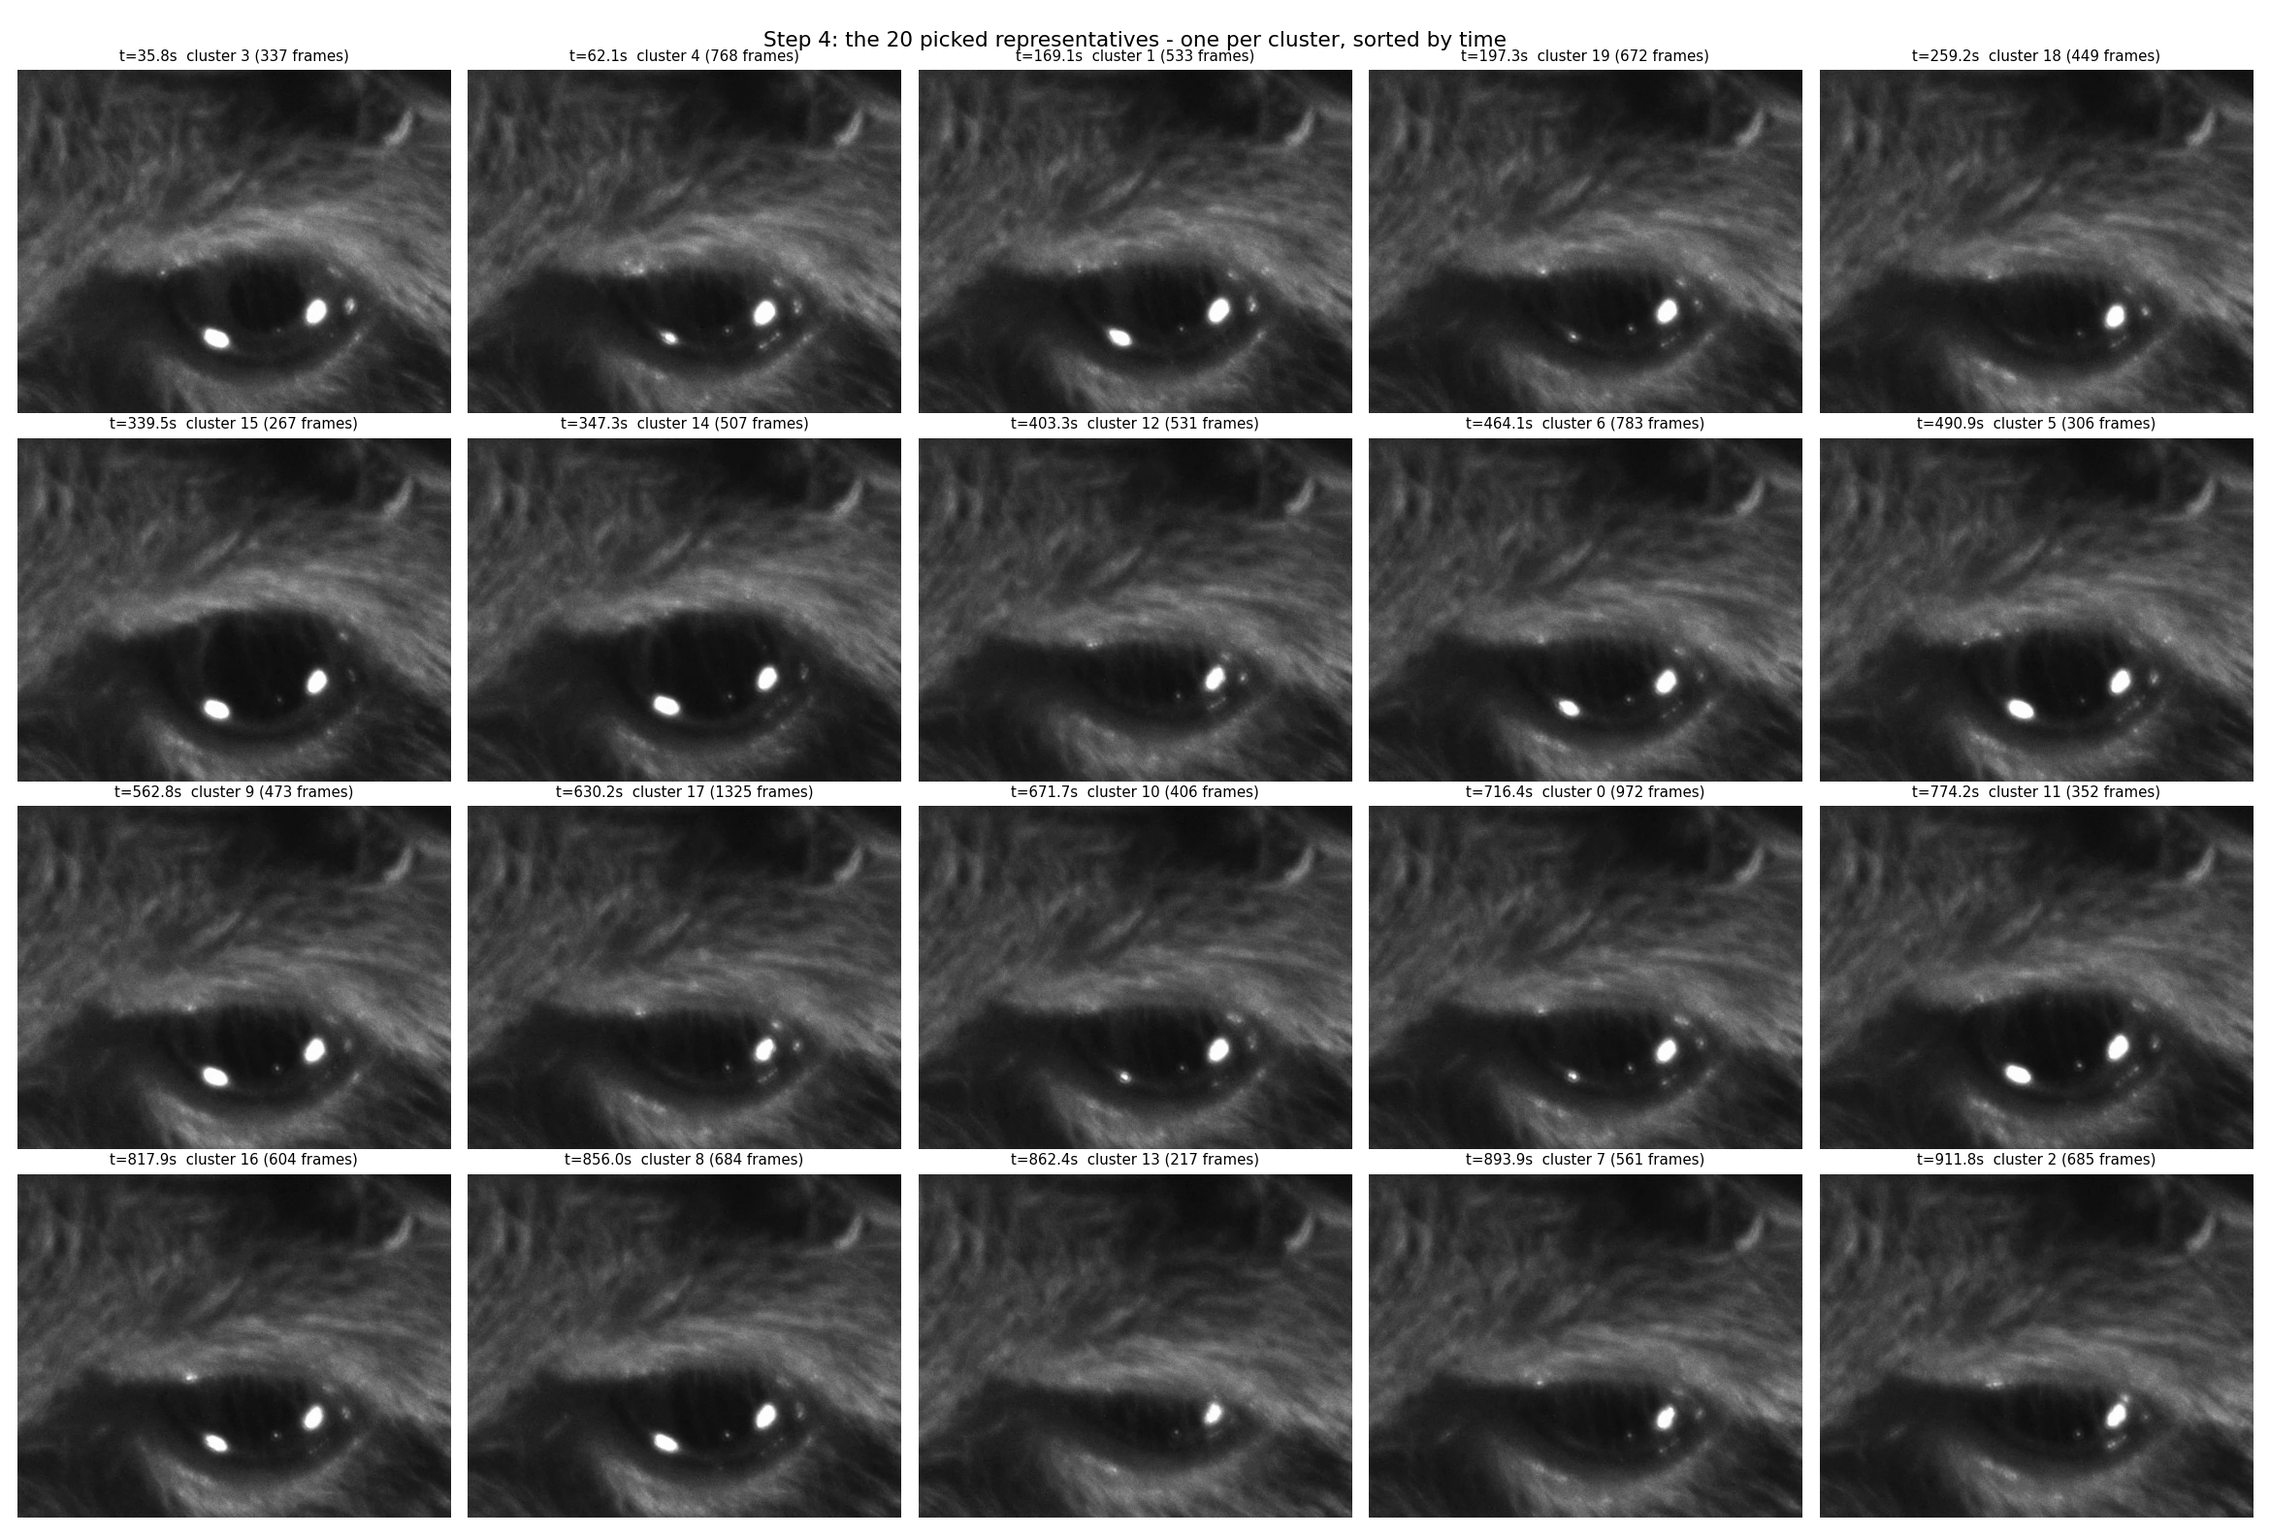
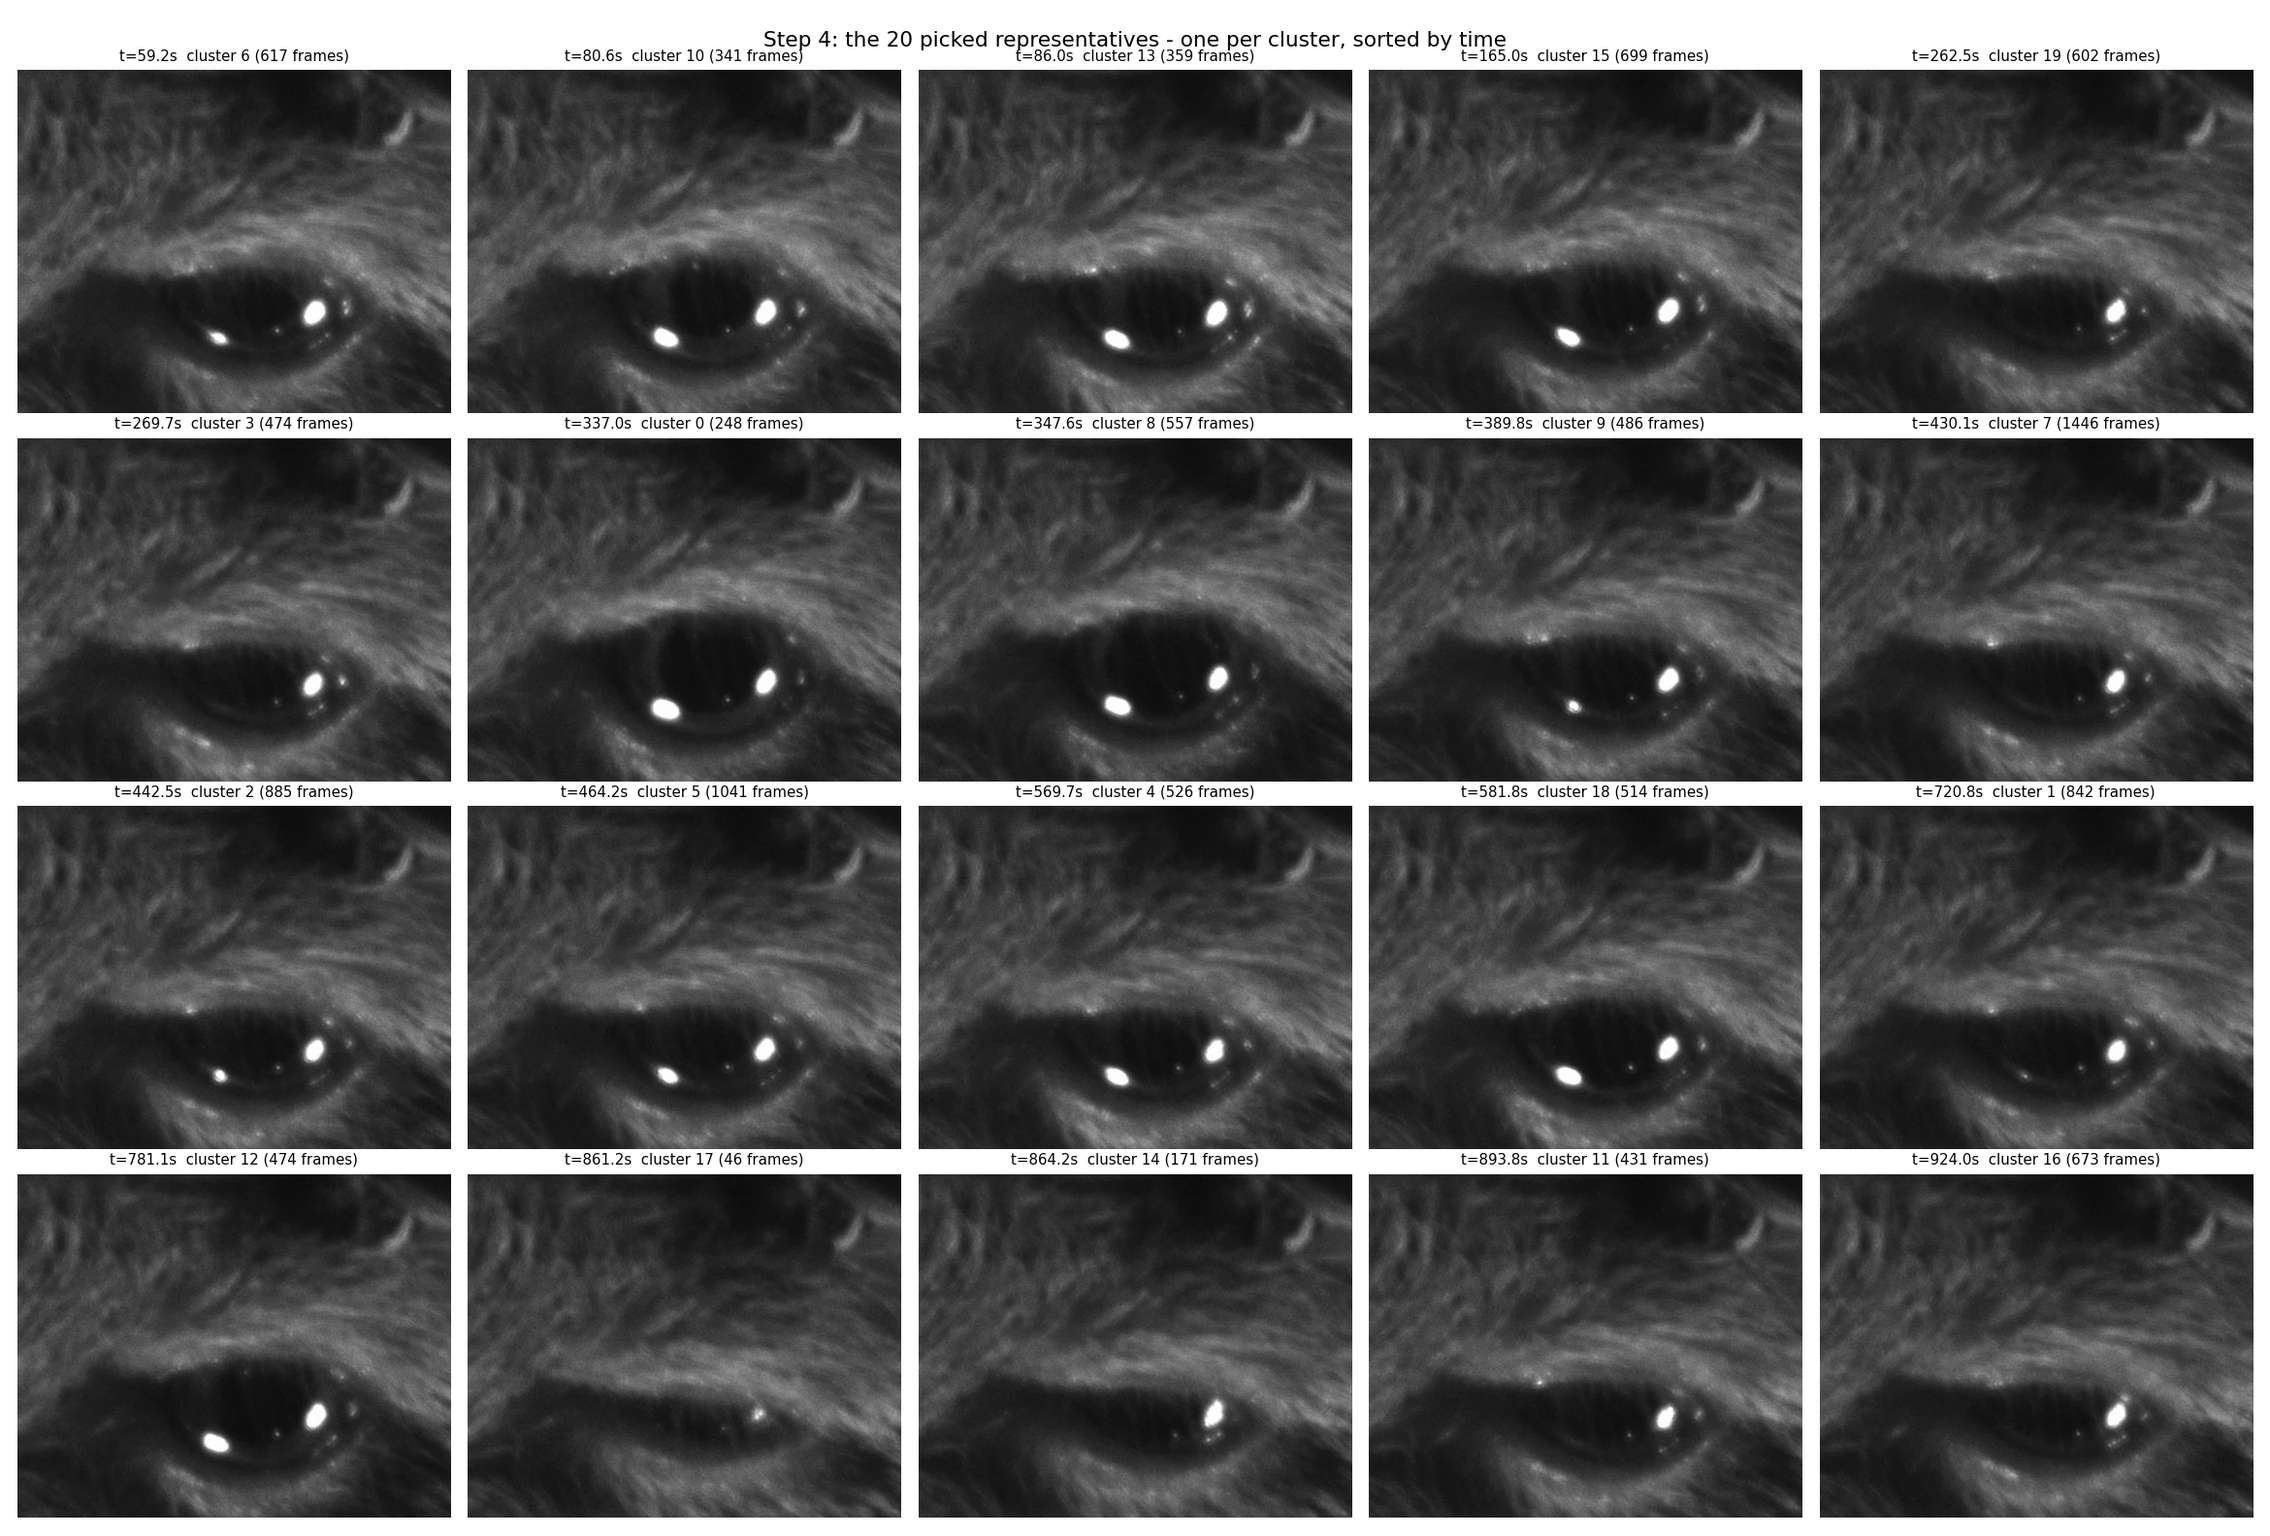
Selector finalized on evidence: k-means over difference-of-Gaussians fingerprints
Multi-seed eye-state coverage on the old video (known states): average
coverage is within noise of random, but all four rare extremes are hit in
10/10 seeds (raw pixels 7/10, random 27%). On three Pluto sessions DoG
doubles silhouette and raises pick diversity. Added selector_check.py
(cross-video label-free criteria) and validate_selector.py. The brightness
criterion C5 proved non-diagnostic in both forms and is documented as such.

diff --git a/new-video-generalization/scripts/selector_check.py b/new-video-generalization/scripts/selector_check.py
@@ -1,0 +1,157 @@
+#!/usr/bin/env python3
+"""Label-free robustness check of the batch-1 selector across videos.
+
+    python selector_check.py <video> [<video> ...]
+
+Runs the exact batch-1 recipe of select_scale_frames.py (80/10/10 split with
+2-s guards, every 5th pool frame, 32x24 normalized grayscale fingerprints,
+scikit-learn k-means k=20 seed 42, medoid per cluster, >=1 s spacing) and
+scores it against criteria declared BEFORE looking at the results:
+
+  C1 runs and yields exactly 20 picks inside the pool
+  C2 temporal coverage: picks fall in >= 7 of the pool's 10 time deciles
+  C3 no near-duplicates: minimum gap between picks >= 1 s
+  C4 clusters are eye STATES, not time chunks: median cluster spans >= 25%
+     of the pool duration (5th-95th percentile of its members' times)
+  C5 not illumination-driven: cluster labels explain < 50% of the variance
+     of BACKGROUND brightness (top quarter of the frame = fur, no eye). The
+     first version used whole-frame brightness, which cannot separate lighting
+     from eye state (a dilated pupil darkens the frame); replaced 2026-09-19
+     after an illumination-blind feature gave the same whole-frame eta^2.
+  C6 picks are more diverse than chance: mean pairwise fingerprint distance
+     of the 20 picks >= 75th percentile of 300 random 20-frame draws
+
+Writes nothing under training-data/labels; figures go to
+results/selector_check/.
+"""
+import sys
+from pathlib import Path
+
+import cv2
+import matplotlib
+
+matplotlib.use("Agg")
+import matplotlib.pyplot as plt
+import numpy as np
+from sklearn.cluster import KMeans
+from sklearn.metrics import silhouette_score
+
+UNIT = Path(__file__).resolve().parents[1]
+OUT = UNIT / "results" / "selector_check"
+OUT.mkdir(parents=True, exist_ok=True)
+SEED, STRIDE, N, GUARD_S, MIN_GAP_S, FLOOR_S = 42, 5, 20, 2.0, 1.0, 60.0
+import os
+FEAT = os.environ.get("FEAT", "raw")
+
+
+def check(video):
+    video = Path(video)
+    cap = cv2.VideoCapture(str(video))
+    n = int(cap.get(cv2.CAP_PROP_FRAME_COUNT))
+    fps = float(cap.get(cv2.CAP_PROP_FPS)) or 60.0
+    w, h = int(cap.get(3)), int(cap.get(4))
+    seg = max(0.10 * n / fps, FLOOR_S)
+    guard = int(round(GUARD_S * fps))
+    test_lo = n - int(round(seg * fps))
+    val_hi = test_lo - guard
+    val_lo = val_hi - int(round(seg * fps))
+    pool_hi = val_lo - guard
+
+    feats, ids, bright = [], [], []
+    for i in range(pool_hi):
+        if not cap.grab():
+            break
+        if i % STRIDE:
+            continue
+        ok, im = cap.retrieve()
+        if not ok:
+            continue
+        gray = cv2.cvtColor(im, cv2.COLOR_BGR2GRAY).astype(np.float32)
+        bright.append(gray[: gray.shape[0] // 4].mean())   # fur-only strip: illumination proxy, no eye
+        if FEAT == "dog":      # difference of Gaussians: keeps edges/shape, drops slow illumination
+            small = cv2.resize(gray, (128, 96), interpolation=cv2.INTER_AREA)
+            small = cv2.GaussianBlur(small, (0, 0), 1.0) - cv2.GaussianBlur(small, (0, 0), 6.0)
+            g = cv2.resize(small, (32, 24), interpolation=cv2.INTER_AREA).ravel()
+        else:
+            g = cv2.resize(gray, (32, 24)).ravel()
+        feats.append((g - g.mean()) / (g.std() + 1e-6))
+        ids.append(i)
+    feats, ids, bright = np.asarray(feats), np.asarray(ids), np.asarray(bright)
+
+    km = KMeans(n_clusters=N, n_init=10, max_iter=300, random_state=SEED).fit(feats)
+    lab = km.labels_
+    order = np.argsort(-np.bincount(lab, minlength=N))
+    gap = int(round(MIN_GAP_S * fps))
+    picks, pos = [], []
+    for c in order:
+        m = np.where(lab == c)[0]
+        ranked = m[np.argsort(np.linalg.norm(feats[m] - km.cluster_centers_[c], axis=1))]
+        for j in ranked:                         # nearest member that respects spacing
+            if all(abs(ids[j] - p) >= gap for p in picks):
+                picks.append(int(ids[j])); pos.append(int(j)); break
+    picks, pos = np.asarray(picks), np.asarray(pos)
+
+    t = ids / fps
+    deciles = len(set(np.minimum((picks / pool_hi * 10).astype(int), 9)))
+    min_gap = float(np.diff(np.sort(picks)).min() / fps)
+    spans = []
+    for c in range(N):
+        tc = t[lab == c]
+        spans.append((np.percentile(tc, 95) - np.percentile(tc, 5)) / (pool_hi / fps))
+    span_med = float(np.median(spans))
+    grand = bright.mean()
+    eta2 = float(sum((lab == c).sum() * (bright[lab == c].mean() - grand) ** 2 for c in range(N))
+                 / ((bright - grand) ** 2).sum())
+
+    def mpd(idx):
+        f = feats[idx]
+        d = np.linalg.norm(f[:, None] - f[None], axis=2)
+        return d[np.triu_indices(len(idx), 1)].mean()
+    rng = np.random.RandomState(0)
+    rand = np.array([mpd(rng.choice(len(feats), N, replace=False)) for _ in range(300)])
+    div_pct = float((rand <= mpd(pos)).mean())
+    sil = float(silhouette_score(feats, lab, sample_size=min(3000, len(feats)), random_state=0))
+
+    crit = {
+        "C1 20 picks in pool": len(picks) == N and picks.max() < pool_hi,
+        "C2 time deciles >= 7": deciles >= 7,
+        "C3 min gap >= 1 s": min_gap >= 1.0,
+        "C4 clusters span >= 25% of pool": span_med >= 0.25,
+        "C5 brightness eta2 < 0.5": eta2 < 0.5,
+        "C6 diversity >= 75th pct of random": div_pct >= 0.75,
+    }
+
+    # figure: timeline of clusters + montage of the picks
+    fig = plt.figure(figsize=(20, 15))
+    gs = fig.add_gridspec(5, 5, height_ratios=[1.3, 1, 1, 1, 1], hspace=0.28, wspace=0.05)
+    ax = fig.add_subplot(gs[0, :])
+    ax.scatter(t, lab, c=lab, cmap=plt.get_cmap("tab20", N), s=3, alpha=0.6, vmin=0, vmax=N - 1)
+    ax.scatter(picks / fps, lab[pos], marker="*", s=200, c="black", zorder=5)
+    ax.set_xlabel("time (s)"); ax.set_ylabel("cluster id"); ax.set_yticks(range(N))
+    ok_all = all(crit.values())
+    ax.set_title(f"{video.name}  {n / fps / 60:.1f} min @ {fps:.0f} fps, {w}x{h} | pool 0-{pool_hi / fps:.0f}s | "
+                 f"silhouette {sil:.2f} | deciles hit {deciles}/10 | min gap {min_gap:.1f}s | "
+                 f"cluster span {span_med:.0%} | brightness eta2 {eta2:.2f} | diversity pct {div_pct:.0%} | "
+                 f"{'ALL CRITERIA PASS' if ok_all else 'CRITERIA FAILED'}", fontsize=10)
+    for k, f in enumerate(np.sort(picks)):
+        axi = fig.add_subplot(gs[1 + k // 5, k % 5])
+        cap.set(cv2.CAP_PROP_POS_FRAMES, int(f))
+        okr, im = cap.read()
+        if okr:
+            axi.imshow(cv2.cvtColor(im, cv2.COLOR_BGR2RGB))
+        axi.set_title(f"t={f / fps:.1f}s", fontsize=9); axi.axis("off")
+    cap.release()
+    fig.savefig(OUT / f"{video.stem}_selector_check_{FEAT}.png", dpi=95, bbox_inches="tight")
+    plt.close(fig)
+
+    print(f"\n=== [{FEAT}] {video.name}: {n / fps / 60:.1f} min, {fps:.0f} fps, {w}x{h}, "
+          f"pool [0,{pool_hi}) val [{val_lo},{val_hi}) test [{test_lo},{n})")
+    print(f"    silhouette {sil:.3f} | deciles {deciles}/10 | min gap {min_gap:.1f}s | median cluster span "
+          f"{span_med:.0%} | brightness eta2 {eta2:.2f} | diversity percentile {div_pct:.0%}")
+    for k, v in crit.items():
+        print(f"    [{'PASS' if v else 'FAIL'}] {k}")
+    return ok_all
+
+
+results = {v: check(v) for v in sys.argv[1:]}
+print("\nSUMMARY:", {Path(k).name: ("PASS" if v else "FAIL") for k, v in results.items()})

diff --git a/new-video-generalization/scripts/select_scale_frames.py b/new-video-generalization/scripts/select_scale_frames.py
@@ -11,9 +11,10 @@ Implements FROZEN_PARAMETERS.md exactly (rewritten 2026-09-18 after audit):
              (>= 60 s), pool = everything earlier; a GUARD of 2 s is removed
              on both sides of val so no pool/val/test frames are near-duplicates.
              fps and length are read from the video, never hardcoded.
-  batch 1    k-means (sklearn, k=20, n_init=10, random_state=42) on per-frame
-             normalized 32x24 grayscale fingerprints of every 5th pool frame;
-             one medoid per cluster.
+  batch 1    k-means (sklearn, k=20, n_init=10, random_state=42) on 32x24
+             difference-of-Gaussians fingerprints (sigma 1 - sigma 6 on a
+             128x96 downscale, then per-frame normalized) of every 5th pool
+             frame; one medoid per cluster.
   batch >=2  error-guided: `jump` detector on the latest model's predictions
              (any keypoint moving more than EPS_FRAC * median eye width
              between consecutive frames), then k-means (k=20) among the
@@ -51,10 +52,12 @@ ap.add_argument("--pred-h5", default=None, help="latest model's predictions (bat
 ap.add_argument("--force", action="store_true")
 a = ap.parse_args()
 
-videos = [Path(a.video)] if a.video else sorted(TD.glob("*.mp4"))
+FIRST = "20251031_Pluto_spont_1"
+videos = [Path(a.video)] if a.video else sorted(TD.rglob(f"{FIRST}.mp4"))
 if len(videos) != 1:
-    sys.exit(f"expected exactly one video, found {videos}")
+    sys.exit(f"expected exactly one video, found {videos}; pass --video")
 VIDEO = videos[0]
+LABELS = TD / "labels" if VIDEO.stem == FIRST else TD / f"labels_{VIDEO.stem}"
 cap = cv2.VideoCapture(str(VIDEO))
 n_frames = int(cap.get(cv2.CAP_PROP_FRAME_COUNT))
 fps = float(cap.get(cv2.CAP_PROP_FPS)) or 60.0
@@ -70,7 +73,7 @@ if pool_hi < int(60 * fps):
     sys.exit("video too short for the 80/10/10 rule with 60 s floors")
 
 name = {"test": "test100", "val": "val20"}.get(a.stage, f"batch{a.batch_no:02d}")
-out = TD / "labels" / name
+out = LABELS / name
 if out.exists() and any(out.glob("img*.png")):
     if not a.force:
         sys.exit(f"{out} already populated; refusing to overwrite (use --force to wipe and redo)")
@@ -80,7 +83,7 @@ out.mkdir(parents=True, exist_ok=True)
 
 def labeled_elsewhere():
     done = set()
-    for d in (TD / "labels").glob("batch*"):
+    for d in LABELS.glob("batch*"):
         if d != out:
             done |= {int(p.stem.replace("img", "")) for p in d.glob("img*.png")}
     return done
@@ -114,7 +117,10 @@ def fingerprints(frame_ids):
         ok, im = cap.retrieve()
         if not ok:
             continue
-        v = cv2.resize(cv2.cvtColor(im, cv2.COLOR_BGR2GRAY), (32, 24)).ravel().astype(np.float32)
+        gray = cv2.cvtColor(im, cv2.COLOR_BGR2GRAY).astype(np.float32)
+        sm = cv2.resize(gray, (128, 96), interpolation=cv2.INTER_AREA)
+        sm = cv2.GaussianBlur(sm, (0, 0), 1.0) - cv2.GaussianBlur(sm, (0, 0), 6.0)   # edges/shape, not slow lighting
+        v = cv2.resize(sm, (32, 24), interpolation=cv2.INTER_AREA).ravel()
         feats.append((v - v.mean()) / (v.std() + 1e-6))
         kept.append(i)
     return np.asarray(feats, np.float32), np.asarray(kept)

diff --git a/new-video-generalization/scripts/validate_selector.py b/new-video-generalization/scripts/validate_selector.py
@@ -27,6 +27,8 @@ ROOT = Path(__file__).resolve().parents[2]
 CLIP = ROOT / "active-learning/training-data/face_first4min.mp4"
 H5 = sorted(glob.glob(str(ROOT / "active-learning/training-data/face_first4minDLC*shuffle60*.h5")))[-1]
 SEED, STRIDE, N = 42, 5, 20
+import os
+FEAT = os.environ.get('FEAT', 'raw')
 
 pr = pd.read_hdf(H5)
 pr.columns = pr.columns.droplevel(0)
@@ -53,7 +55,13 @@ for i in range(pool_hi):
     ok, im = cap.retrieve()
     if not ok:
         continue
-    v = cv2.resize(cv2.cvtColor(im, cv2.COLOR_BGR2GRAY), (32, 24)).ravel().astype(np.float32)
+    gray = cv2.cvtColor(im, cv2.COLOR_BGR2GRAY).astype(np.float32)
+    if FEAT == "dog":
+        sm = cv2.resize(gray, (128, 96), interpolation=cv2.INTER_AREA)
+        sm = cv2.GaussianBlur(sm, (0, 0), 1.0) - cv2.GaussianBlur(sm, (0, 0), 6.0)
+        v = cv2.resize(sm, (32, 24), interpolation=cv2.INTER_AREA).ravel()
+    else:
+        v = cv2.resize(gray, (32, 24)).ravel()
     feats.append((v - v.mean()) / (v.std() + 1e-6))
     ids.append(i)
 cap.release()
@@ -93,7 +101,7 @@ rd, rj = np.array([r[0] for r in rand]), np.array([r[1] for r in rand])
 r_ext = {k: np.mean([r[2][k] for r in rand]) for k in rand[0][2]}
 r_allfour = np.mean([all(v > 0 for v in r[2].values()) for r in rand])
 
-print(f"old video pool: {pool_hi} frames; {N} picks per method\n")
+print(f"[features: {FEAT}] old video pool: {pool_hi} frames; {N} picks per method\n")
 print(f"{'method':14s} {'decile cov':>11s} {'joint 5x5':>10s}   extremes (open_low/open_high/area_low/area_high)")
 for name, p in [("k-means", kmeans_picks), ("uniform-time", uniform_picks)]:
     d, j, e = score(p)

diff --git a/new-video-generalization/scripts/viz_kmeans.py b/new-video-generalization/scripts/viz_kmeans.py
@@ -56,7 +56,7 @@ ax.scatter(proj[pick_pos, 0], proj[pick_pos, 1], marker="*", s=260, c="black", z
 for pp, cl in zip(pick_pos, pick_cluster):
     ax.annotate(str(cl), (proj[pp, 0], proj[pp, 1]), fontsize=8, color="white",
                 ha="center", va="center", zorder=6)
-ax.set_title(f"Step 3: {len(feats)} sampled frames in appearance space (PCA of 768-d fingerprints, "
+ax.set_title(f"Step 3: {len(feats)} sampled frames in appearance space (PCA of 768-d edge fingerprints, "
              f"{expl:.0%} variance shown)\n{k} k-means clusters by color; black stars = the {len(picks)} "
              f"picked representatives (cluster id inside). silhouette = {sil:.2f}", fontsize=10)
 ax.set_xlabel("PC1"); ax.set_ylabel("PC2")
